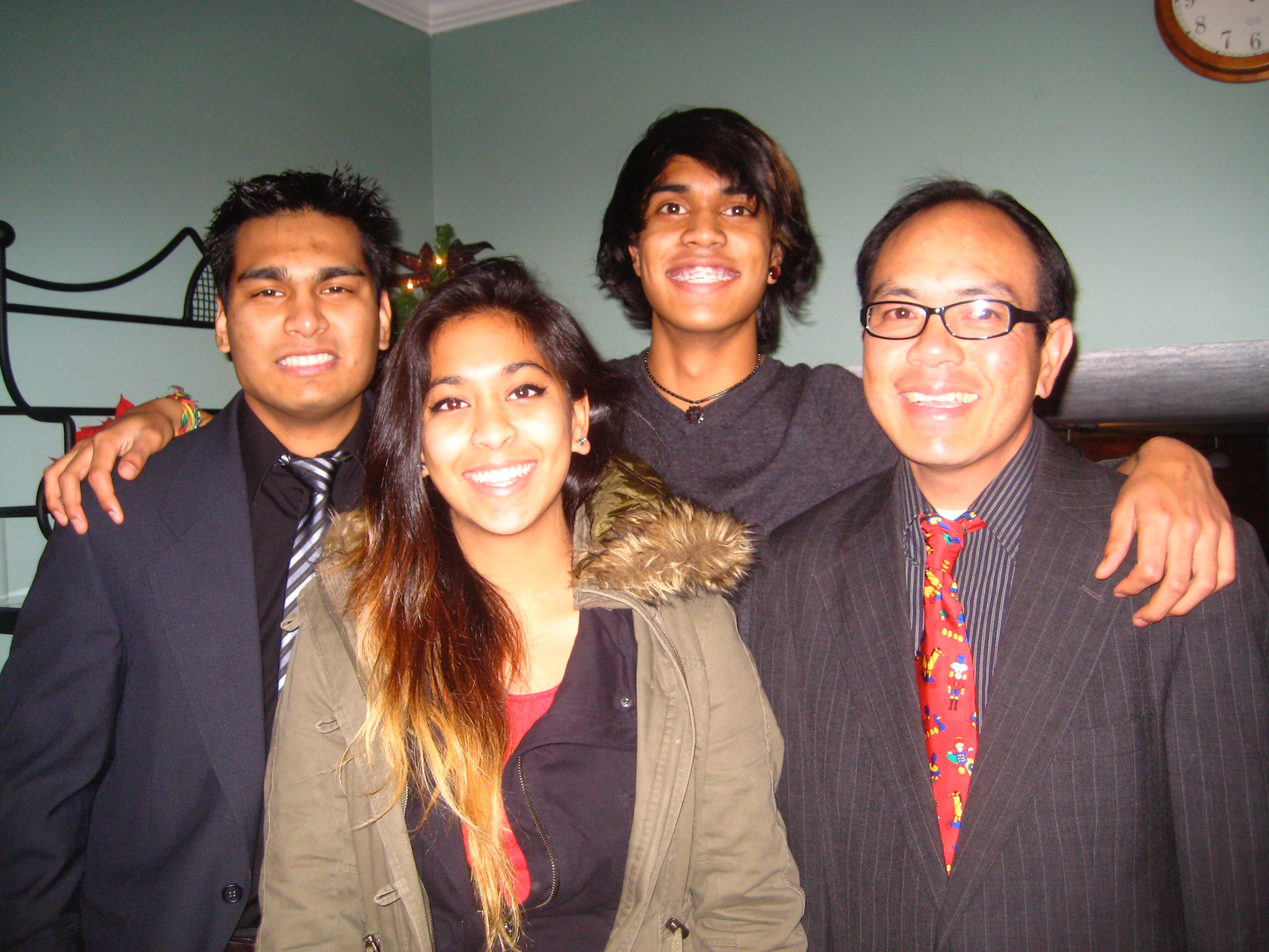
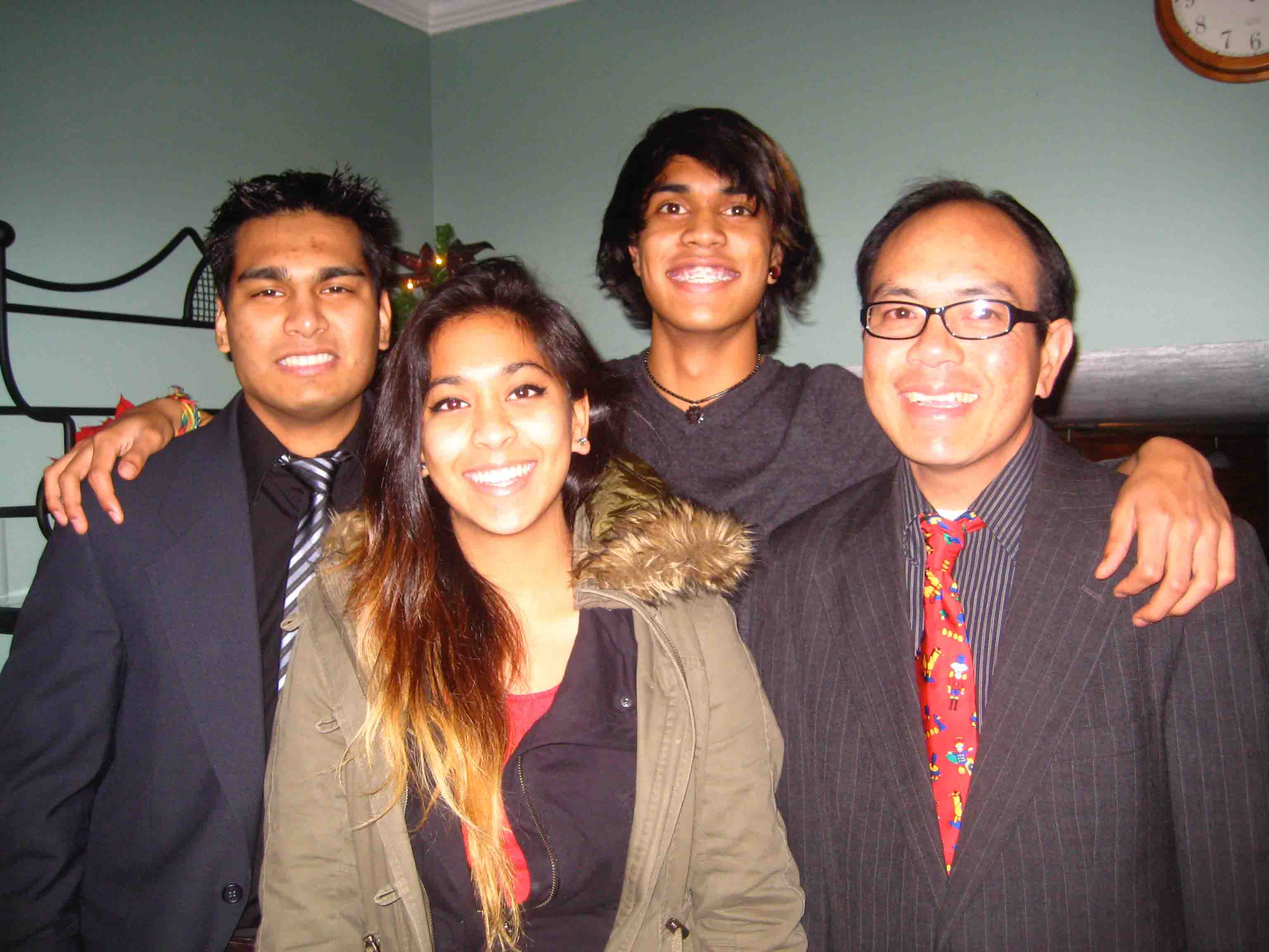
Update to gallery-2.html

Changed region(s): [[0.75, 0.7812, 0.7812, 0.8125], [0.7188, 0.5312, 0.75, 0.5625]]

diff --git a/gallery-2.html b/gallery-2.html
@@ -179,8 +179,8 @@
 						</a>
 					</div>
 					<div class="col-md-4">
-						<a href="img/gallery-2/atob-family-1.jpg" class="img-pop-up">
-							<div class="single-gallery-image" style="background: url(img/gallery-2/atob-family-1-thumb.jpg);"></div>
+						<a href="img/gallery-2/2023-jason-bday.jpg" class="img-pop-up">
+							<div class="single-gallery-image" style="background: url(img/gallery-2/2023-jason-bday-thumb.jpg);"></div>
 						</a>
 					</div>
 				</div>
